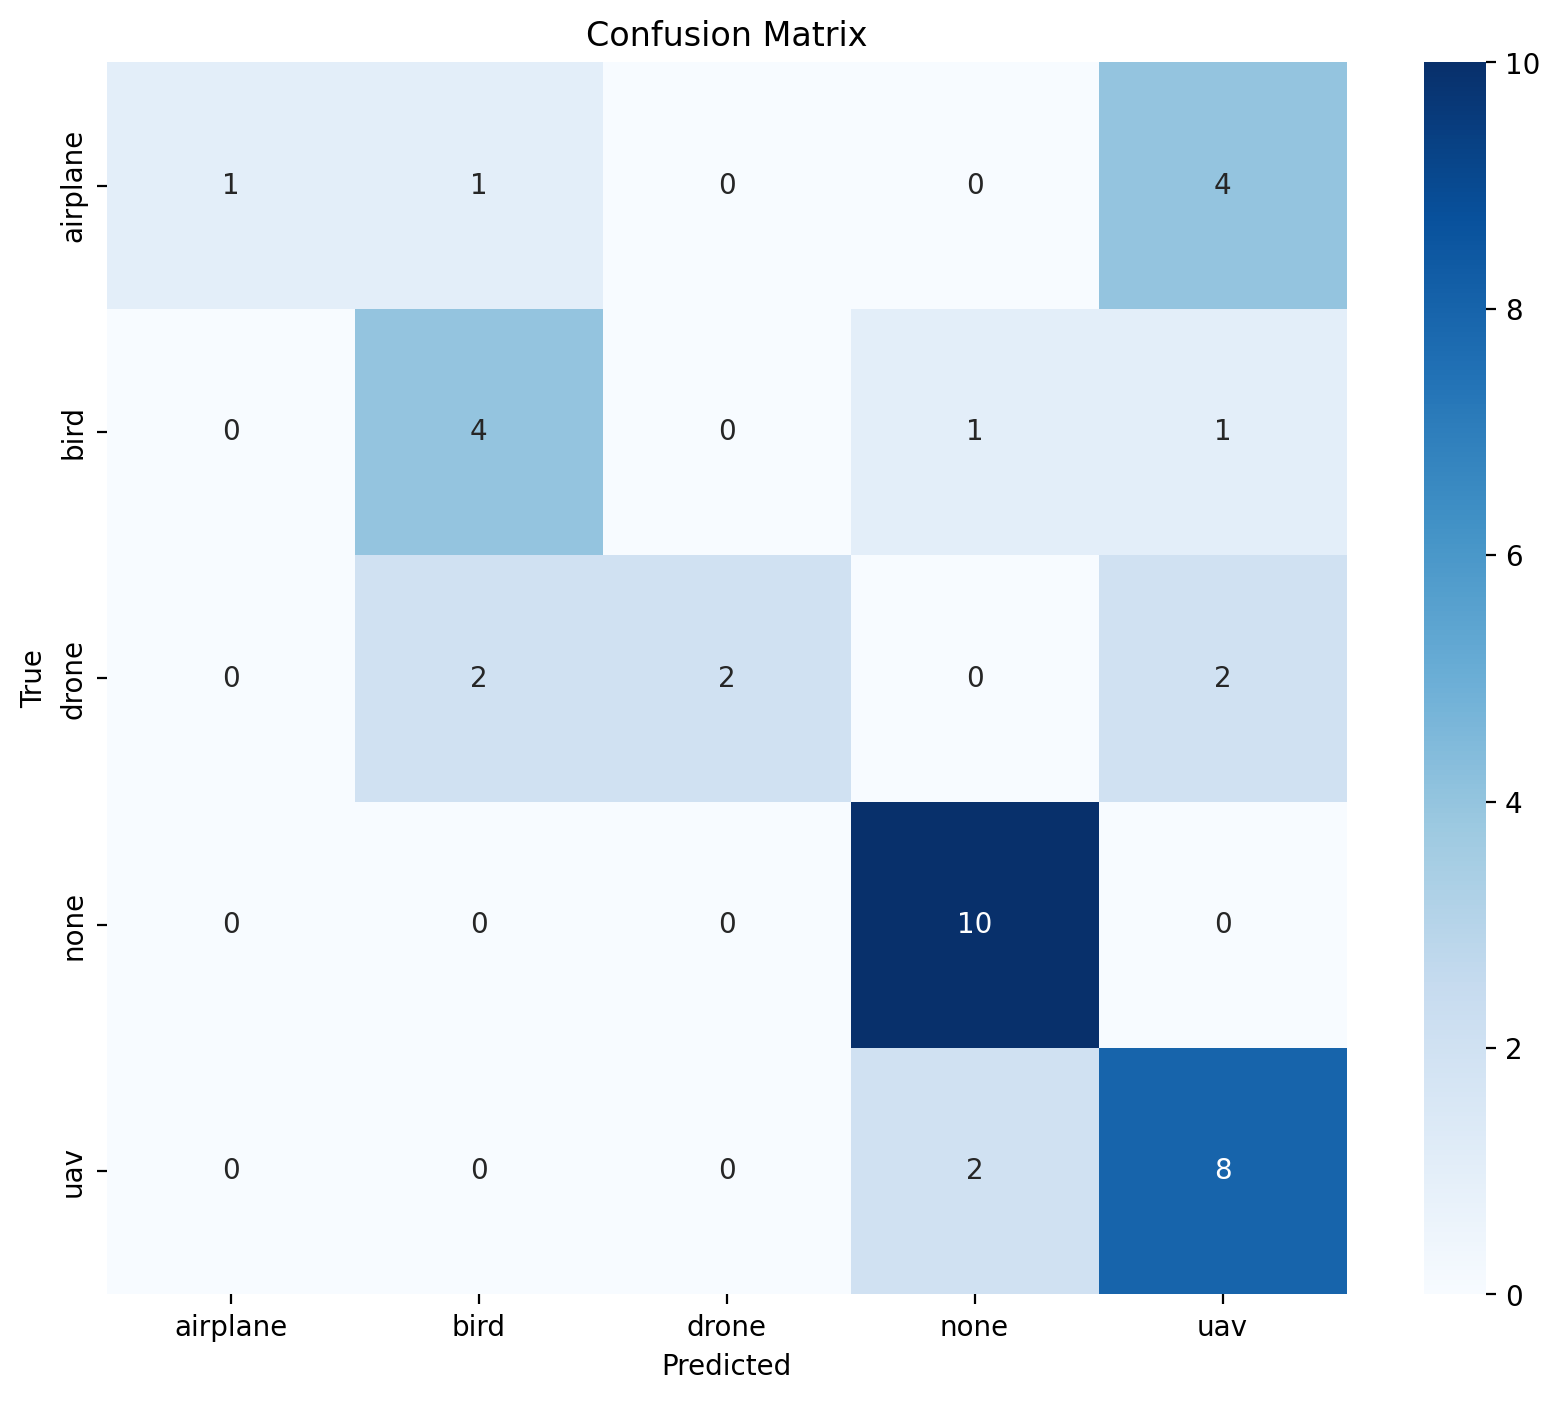
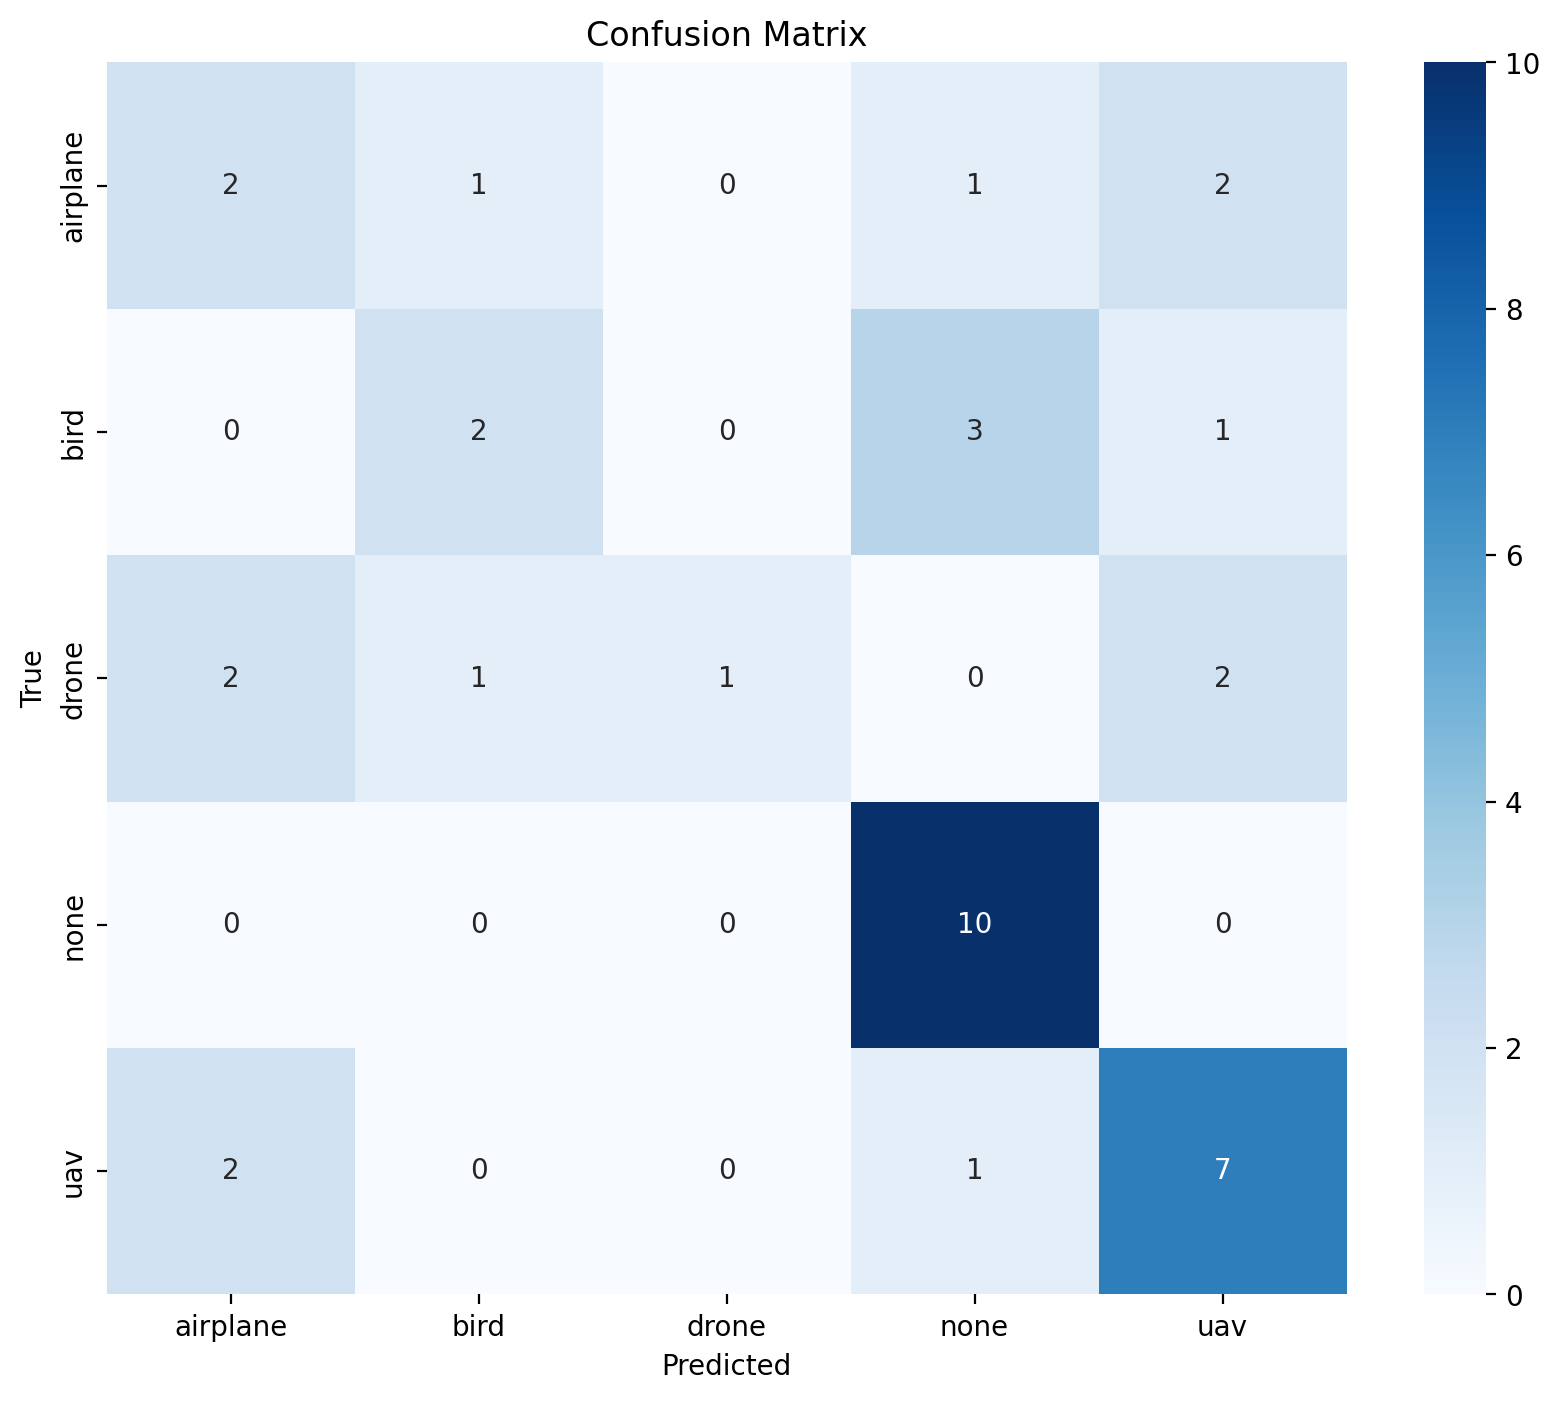
сеть оптимизирована, теперь веса занимают около 25Мб

diff --git a/CustomCNN.py b/CustomCNN.py
@@ -59,3 +59,52 @@ class CustomCNN(nn.Module):
         x = self.dropout(x)
         x = self.fc(x)               # [batch, num_classes]
         return x
+    
+
+
+class EfficientCNN(nn.Module):
+    def __init__(self, num_classes=5):  # По умолчанию 5 классов
+        super().__init__()
+        
+        def conv_block(in_c, out_c, pool=True):
+            layers = [
+                nn.Conv2d(in_c, out_c, kernel_size=3, padding=1),
+                nn.BatchNorm2d(out_c),
+                nn.ReLU(inplace=True)  # Добавил inplace для экономии памяти
+            ]
+            if pool:
+                layers.append(nn.MaxPool2d(2, 2))
+            return nn.Sequential(*layers)
+        
+        # Оптимизированная структура
+        self.conv0 = conv_block(3, 64, pool=False)     # [3,128,128] → [64,128,128]
+        self.block1 = conv_block(64, 64)               # [64,64,64]
+        self.block2 = conv_block(64, 128)              # [128,32,32]
+        self.block3 = conv_block(128, 256)             # [256,16,16]
+        self.block4 = conv_block(256, 512)             # [512,8,8]
+        
+        # Финальные слои
+        self.final_conv = nn.Sequential(
+            conv_block(512, 512),                      # [512,4,4]
+            conv_block(512, 512, pool=False)           # [512,4,4]
+        )
+        
+        # Адаптивный пулинг
+        self.adaptive_pool = nn.AdaptiveAvgPool2d(1)
+        
+        # Классификатор (теперь с явным доступом к Linear)
+        self.dropout = nn.Dropout(0.2)  # Вынесен отдельно для гибкости
+        self.fc = nn.Linear(512, num_classes)  # Чистый Linear слой
+    
+    def forward(self, x):
+        x = self.conv0(x)
+        x = self.block1(x)
+        x = self.block2(x)
+        x = self.block3(x)
+        x = self.block4(x)
+        x = self.final_conv(x)
+        x = self.adaptive_pool(x)
+        x = torch.flatten(x, 1)
+        x = self.dropout(x)
+        x = self.fc(x)
+        return x

diff --git a/test.py b/test.py
@@ -5,17 +5,22 @@ import torch
 from torchvision import transforms
 from PIL import Image
 
-from CustomCNN import CustomCNN
+from CustomCNN import CustomCNN, EfficientCNN
 device = torch.device("cuda" if torch.cuda.is_available() else "cpu")
 
 COLOR_BORDER = (0, 0, 0)
 W_BORDER = 3
+PADDING = 30
 
 """Настройки нейосети"""
 class_names = ['airplane', 'bird', 'drone', 'none', 'uav']
-model = CustomCNN(num_classes=5) 
+model = EfficientCNN(num_classes=5) 
 weights_path = "best_model.pth"
 model.load_state_dict(torch.load(weights_path, map_location=device))
+
+print("Параметры модели")
+for name, param in model.named_parameters():
+    print(f"{name}: {param.numel() * param.element_size() / 1024**2:.2f} MB")
 
 # Трансформации
 transform = transforms.Compose([
@@ -191,7 +196,7 @@ def main(video_path):
             xy, wh = p
             x,y = xy
             w,h = wh
-            cap_img = frame[int(y-h):int(y+h), int(x-w):int(x+w)]
+            cap_img = frame[int(y-h-PADDING):int(y+h+PADDING), int(x-w-PADDING):int(x+w+PADDING)]
 
             # Конвертируем OpenCV -> PIL
             cap_img_rgb = cv2.cvtColor(cap_img, cv2.COLOR_BGR2RGB)  # BGR -> RGB

diff --git a/main.py b/main.py
@@ -10,10 +10,10 @@ import random
 from sklearn.metrics import confusion_matrix
 import seaborn as sns
 
-from CustomCNN import CustomCNN
+from CustomCNN import CustomCNN, EfficientCNN
 
 # 1. Подготовка модели
-model = CustomCNN(num_classes=5) 
+model = EfficientCNN(num_classes=5) 
 
 # 2. Подготовка данных
 def random_pixelate(img):
@@ -222,6 +222,10 @@ if True:
 print("Классы в данных:", len(test_data.classes), test_data.classes)
 print("Выходов у модели:", model.fc.out_features)  # Для CNN
 #print(model) 
+
+print("Параметры модели")
+for name, param in model.named_parameters():
+    print(f"{name}: {param.numel() * param.element_size() / 1024**2:.2f} MB")
 
 plot_confusion_matrix(model, test_loader, test_data.classes)
 plot_image_confusion_matrix(model, test_loader, test_data.classes)
